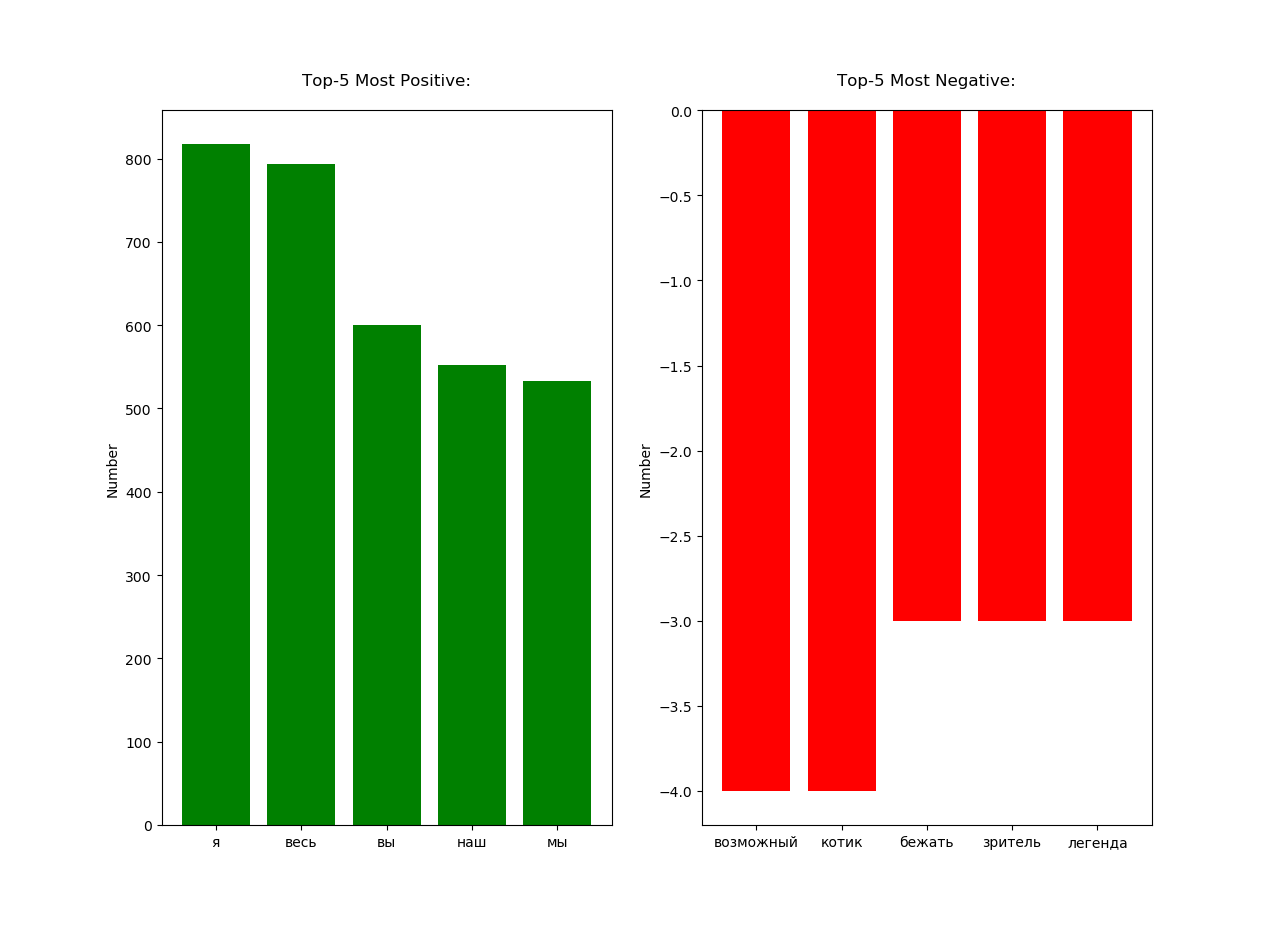
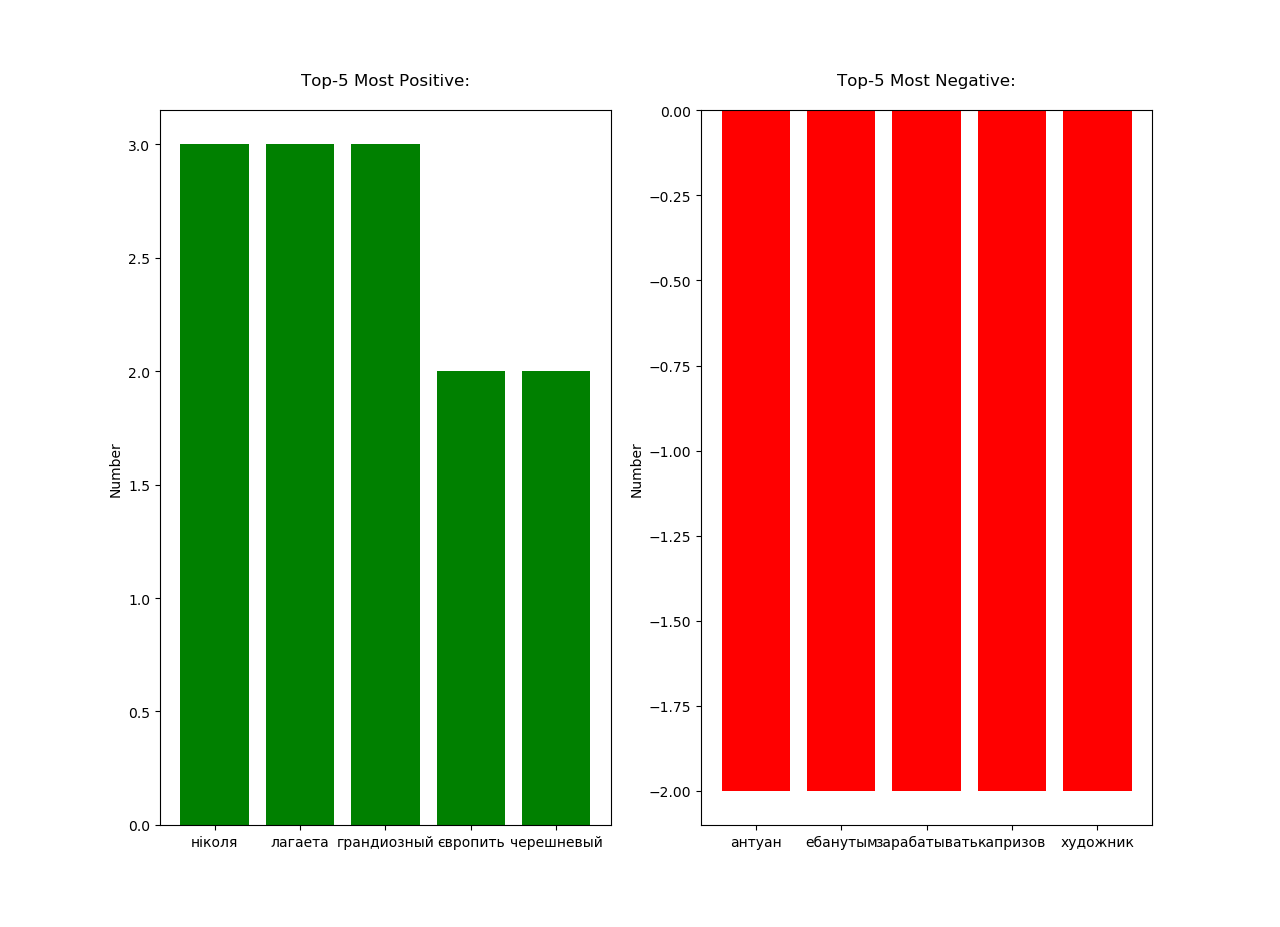
Change strategy for experimental estimations

diff --git a/estimation_check.py b/estimation_check.py
@@ -9,8 +9,10 @@ e_dictionary['я'] = 0 # слово Я стоит в начале файла и 
 
 for i in range(1, 5):
     experiment_estimation_dictionary = dict()
+    word_amount_dictionary = dict()
     for key in e_dictionary:
         experiment_estimation_dictionary[key] = 0
+        word_amount_dictionary[key] = 0
     input_file = open("clear_data.txt", "r", encoding='UTF8')
     tweet_estimations = open("rule" + str(i) + ".txt", "r", encoding='UTF8')
     for line in input_file:
@@ -21,9 +23,15 @@ for i in range(1, 5):
         words = line.split(" ")
         for word in words:
             if word in e_dictionary:
-                experiment_estimation_dictionary[word] += est
+                experiment_estimation_dictionary[word] += est * words.count(word)
+                word_amount_dictionary[word] += 1
 
     delta = list()
+
+    for word in e_dictionary:
+        if word_amount_dictionary[word] != 0:
+            experiment_estimation_dictionary[word] = experiment_estimation_dictionary[word] / word_amount_dictionary[word]
+
     for word in e_dictionary:
         delta.append([abs(experiment_estimation_dictionary[word]-e_dictionary[word]), word])
 
@@ -43,7 +51,7 @@ for i in range(1, 5):
     counter = 0
     bullseye_counter = 0
     for tup in delta:
-        if abs(tup[0]) < 2:
+        if abs(tup[0]) < 1:
             bullseye_counter += 1
         counter += 1
 

diff --git a/estimation_check_barploats.py b/estimation_check_barploats.py
@@ -12,7 +12,7 @@ for i in range(1, 5):
     for j in range(5):
         tup = best_worst_input_file.readline().split(' ')
         labels.append(tup[0])
-        number.append(int(tup[1]))
+        number.append(float(tup[1]))
 
     plt.xticks(range(5), labels)
     plt.title(best_label)
@@ -29,7 +29,7 @@ for i in range(1, 5):
     for j in range(5):
         tup = best_worst_input_file.readline().split(' ')
         labels.append(tup[0])
-        number.append(int(tup[1]))
+        number.append(float(tup[1]))
 
     plt.xticks(range(5), labels)
     plt.title(best_label)
